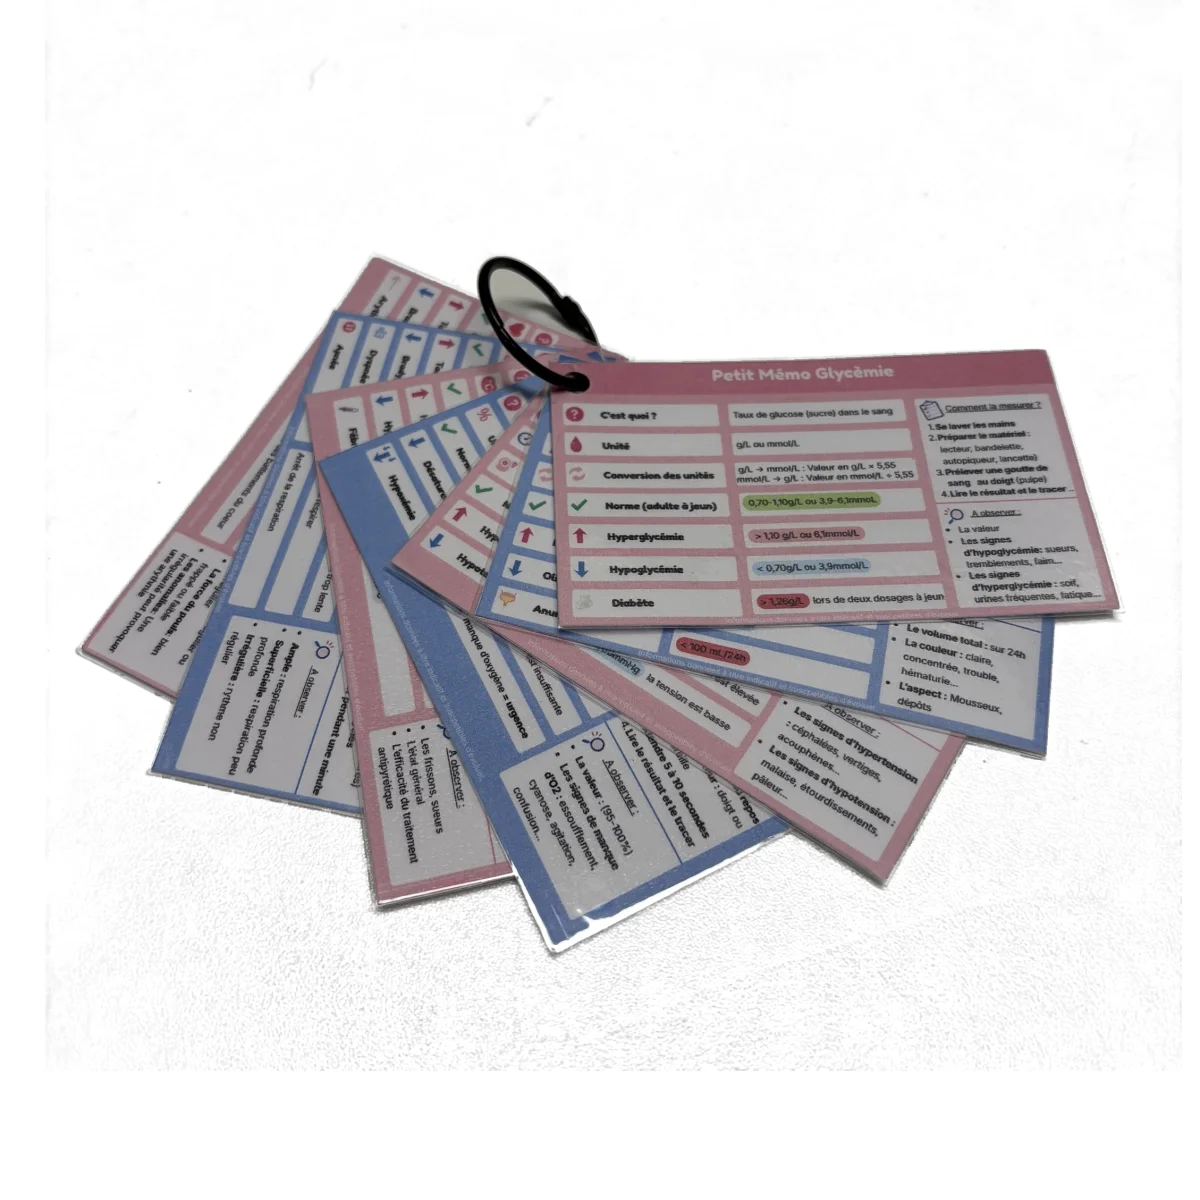
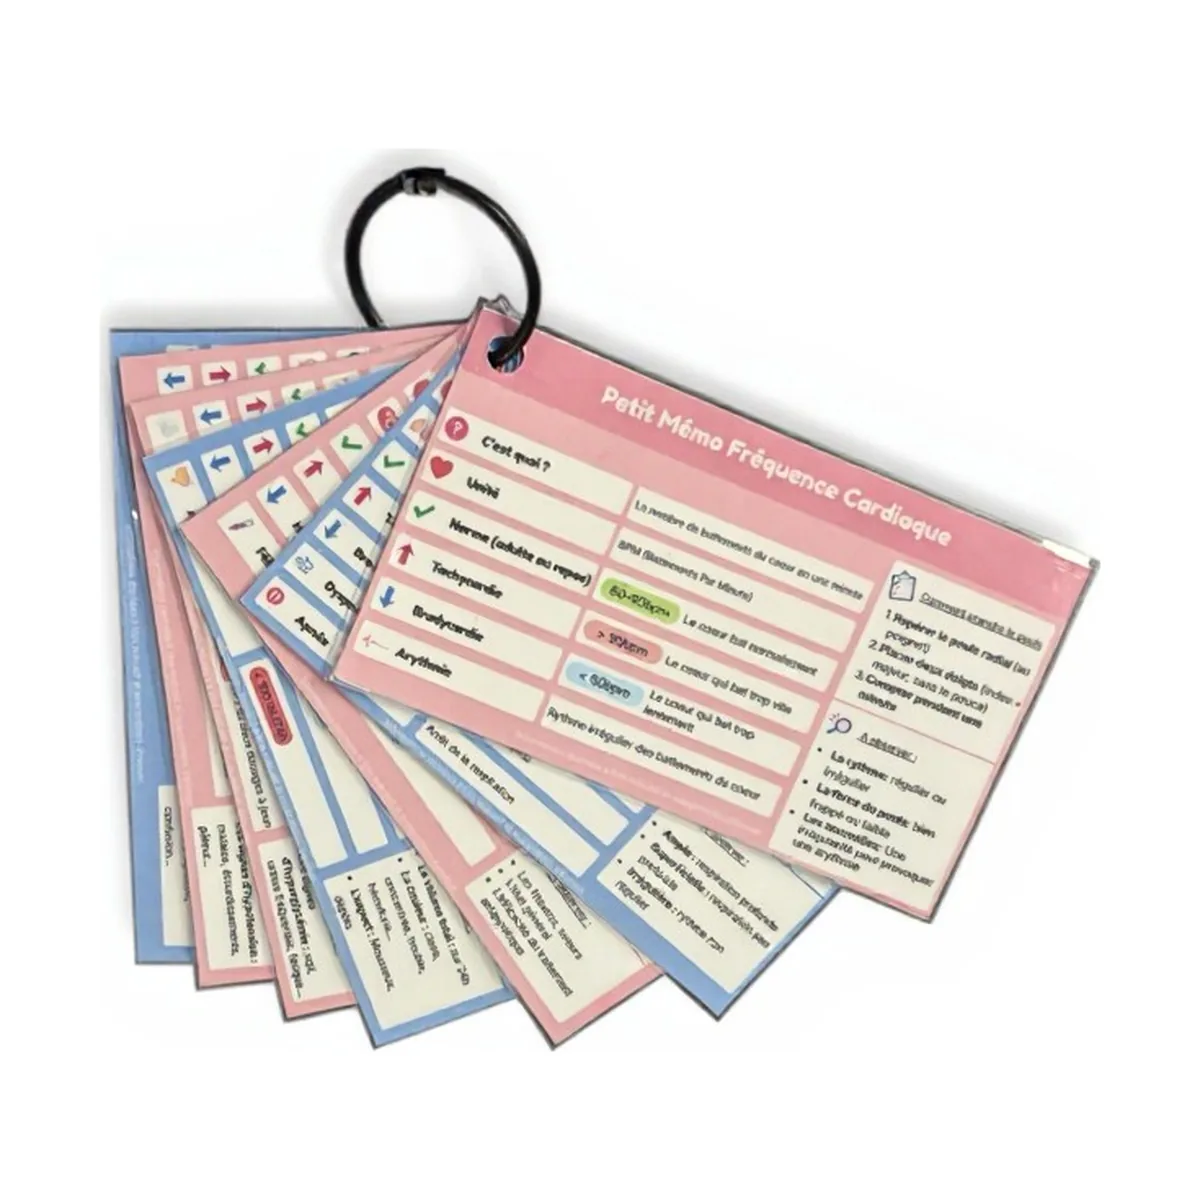
Pack numérique à 2,99 € ; nouvelles photos du format papier (dans la poche en premier, puis fiches empilées et en éventail), recadrées en carré
Claude-Session: https://claude.ai/code/session_01AjM4nKq76yscsc7unTkEs5

diff --git a/src/content/packs.ts b/src/content/packs.ts
@@ -131,7 +131,7 @@ export const packs: Pack[] = [
     },
     description:
       "Un mémo clair et synthétique pour chaque paramètre vital : valeurs normales, technique de mesure et signes d'alerte. Conçu pour réviser vite et bien, sur téléphone ou imprimé.",
-    priceCents: 399,
+    priceCents: 299,
     icon: "heart",
     tone: "pink",
     images: {
@@ -179,7 +179,8 @@ export const packs: Pack[] = [
       specs: ["Format de poche", "Plastifiées", "Carton épais"],
       // Vraies photos des fiches papier (carrousel de la page de vente, quand la version papier est en vente).
       photos: [
-        { src: "/img/packs/papier-glycemie.webp", width: 1200, height: 1200, alt: "Fiche papier Glycémie plastifiée, sur son anneau" },
+        { src: "/img/packs/papier-poche.webp", width: 1200, height: 1200, alt: "Les fiches papier sur leur anneau, dans la poche d'une tenue d'infirmière" },
+        { src: "/img/packs/papier-glycemie.webp", width: 1200, height: 1200, alt: "Les fiches papier empilées sur leur anneau, fiche Glycémie devant" },
         { src: "/img/packs/papier-eventail.webp", width: 1200, height: 1200, alt: "Les fiches papier du pack Constantes en éventail sur leur anneau" },
       ],
     },
